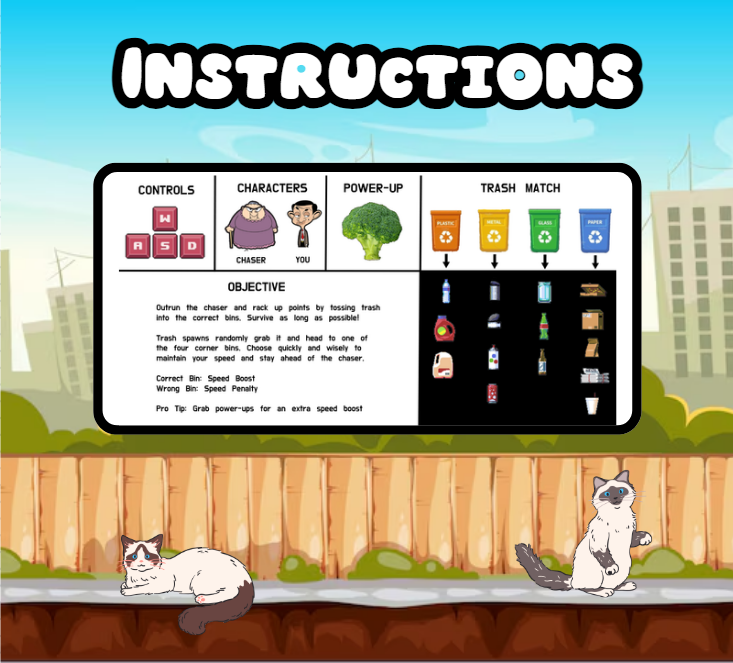
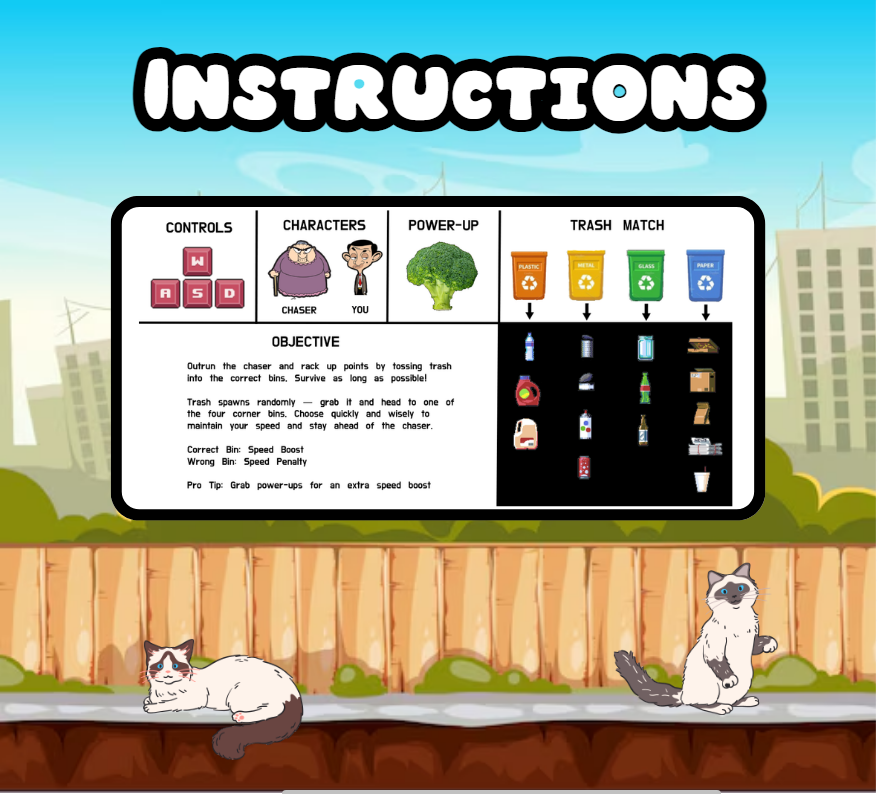
edited instruction page again

diff --git a/lwjgl3/src/main/java/io/github/some_example_name/lwjgl3/InstructionsScene.java b/lwjgl3/src/main/java/io/github/some_example_name/lwjgl3/InstructionsScene.java
@@ -25,7 +25,7 @@ public class InstructionsScene extends Scene {
         }
         
      // Load Background Image with a scaling factor
-        float backgroundScale = 0.97f; // Adjust this value to scale the background image
+        float backgroundScale = 0.81f; // Adjust this value to scale the background image
         background = new BackgroundEntity("instructions.PNG", -35, 1, backgroundScale);
         this.entityManager.addEntity(background);
 
